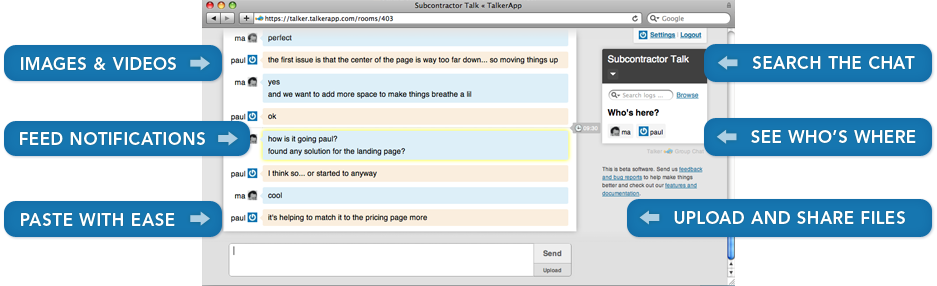
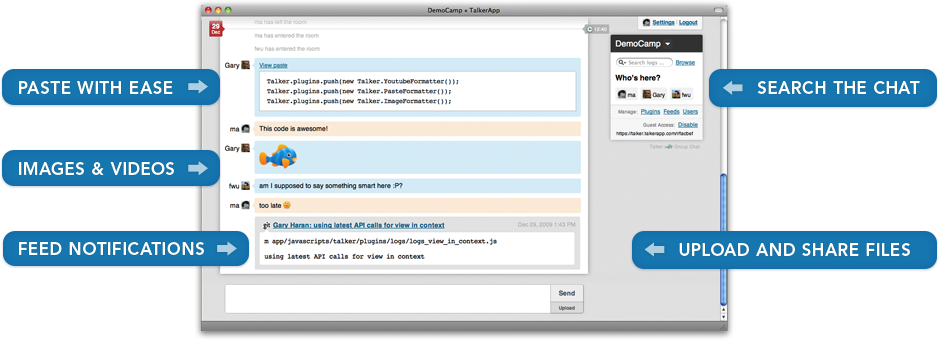
Add new screenie to landing page.

diff --git a/public/stylesheets/root/screen.css b/public/stylesheets/root/screen.css
@@ -245,7 +245,7 @@ hr {
           border-color: #115f8f; }
 
 #home #splash {
-  height: 880px; }
+  height: 913px; }
 
 #splash {
   background: transparent url(/images/root/back.jpg) no-repeat scroll 50% 0;
@@ -269,8 +269,8 @@ hr {
   position: absolute;
   margin: 165px 0px 0px 12px; }
   #video #screenie {
-    width: 937px;
-    height: 286px; }
+    width: 939px;
+    height: 340px; }
   #video .buttons a {
     font-size: 17px;
     text-transform: uppercase;
@@ -285,7 +285,7 @@ hr {
 
 #page {
   position: absolute;
-  margin: 450px 0px 0px -6px;
+  margin: 486px 0px 0px -6px;
   width: 920px;
   padding: 20px 20px 25px;
   border: 6px solid #d9e7ee;
@@ -344,7 +344,7 @@ hr {
 #ads {
   padding: 20px 50px 20px;
   position: absolute;
-  margin: 715px 0px 10px 0px;
+  margin: 741px 0px 10px 0px;
   background: transparent; }
   #ads .spot {
     float: left;

diff --git a/app/stylesheets/root/screen.sass b/app/stylesheets/root/screen.sass
@@ -246,7 +246,7 @@ hr
 
 
 #home #splash
-  height: 880px
+  height: 913px
 
 #splash
   background: transparent url(/images/root/back.jpg) no-repeat scroll 50% 0
@@ -273,8 +273,8 @@ hr
   margin: 165px 0px 0px 12px
   
   #screenie
-    width: 937px
-    height: 286px
+    width: 939px
+    height: 340px
 
   .buttons a
     font-size: 17px
@@ -292,7 +292,7 @@ hr
 
 #page
   position: absolute
-  margin: 450px 0px 0px -6px
+  margin: 486px 0px 0px -6px
   width: 920px
   padding: 20px 20px 25px
   border: 6px solid #d9e7ee
@@ -361,7 +361,7 @@ hr
 #ads
   padding: 20px 50px 20px
   position: absolute
-  margin: 715px 0px 10px 0px
+  margin: 741px 0px 10px 0px
   background: transparent
 
   .spot
